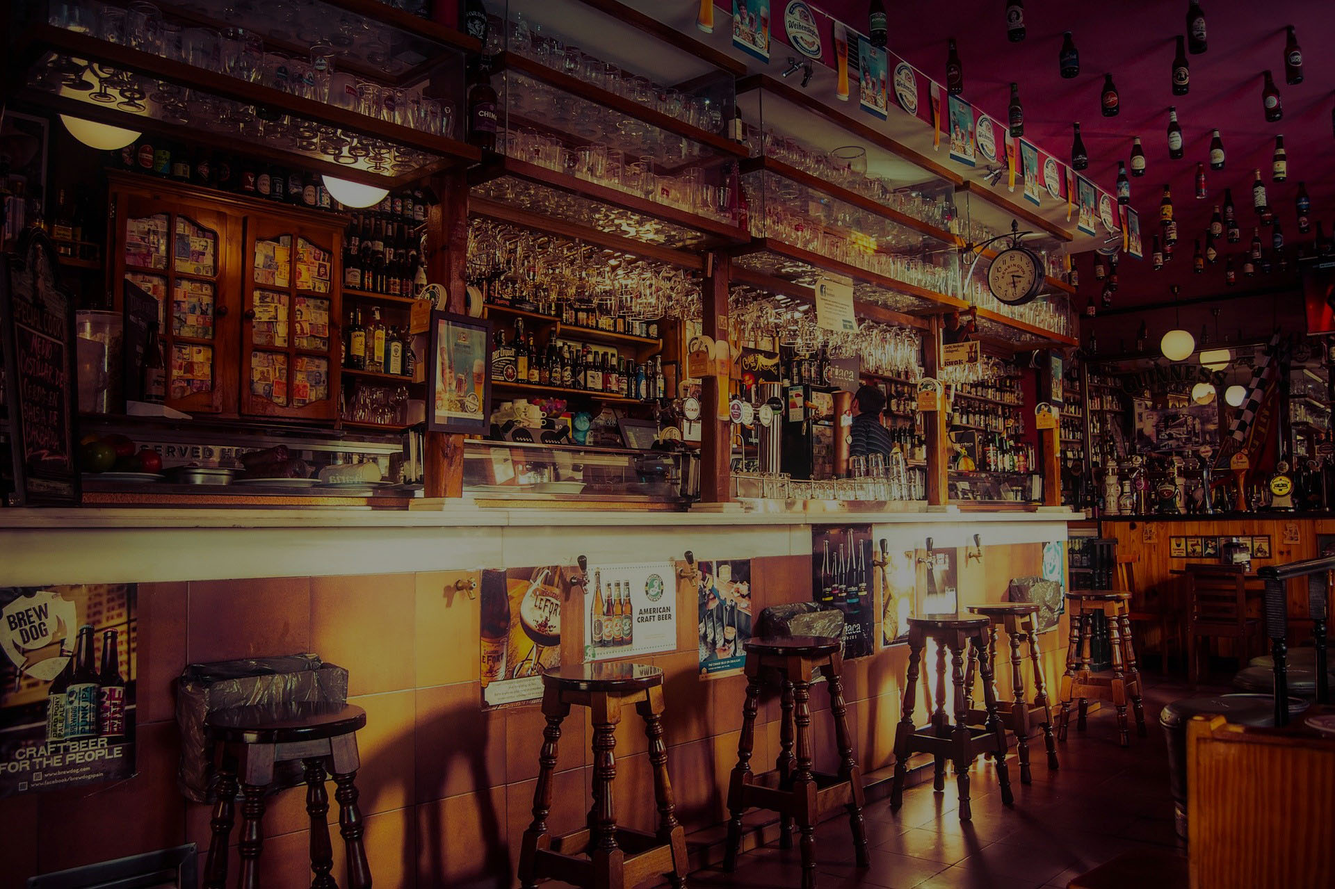
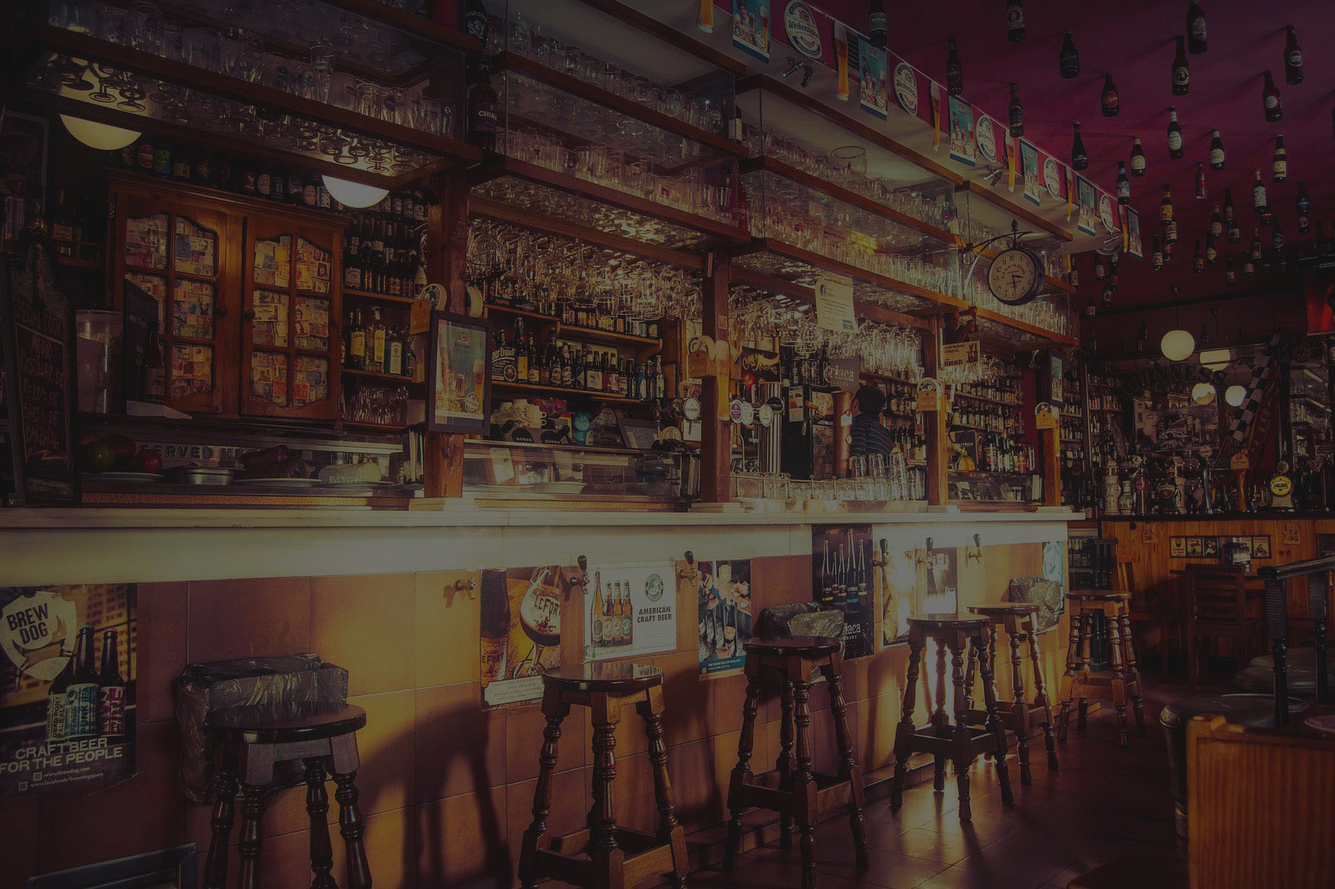
Made Images darker so that text stands out more

diff --git a/index.html b/index.html
@@ -75,7 +75,7 @@
                         <p class="fs-2 lh-sm">Due to COVID-19 Only Takeout & Delivery are Available.</p>
                     </div>
                     <div class="box-text lh-sm fs-2 p-4">
-                        <p>Monday: CLOSED<br>Tuesday: CLOSED<br>Wednesday: CLOSED<br>Thursday: CLOSED<br>Friday: 5-8PM<br>Saturday: 5-8PM<br>Sunday: 12-2:30PM</p>
+                        <p>Monday: CLOSED<br>Tuesday: CLOSED<br>Wednesday: CLOSED<br>Thursday: CLOSED<br>Friday: 5PM-8PM<br>Saturday: 5PM-8PM<br>Sunday: 12PM-2:30PM</p>
                     </div>
                 </div>
             </div>
